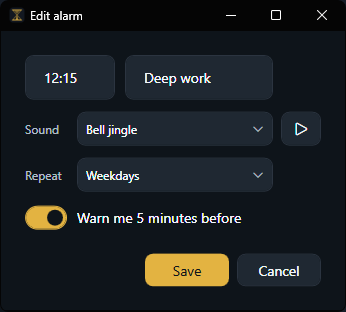
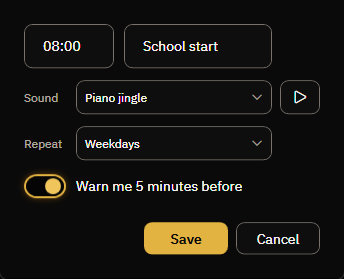
docs(readme): fresh screenshots for the v2.0.0 look
All four shots retaken on the new palette: the main window leads with the hero
countdown, the Schedule gets its own screenshot for the first time (chosen for
the running-timer strip along the bottom, which no text quite conveys), and the
dialog and completion card are re-shot rather than left showing a theme the app
no longer has. Alt text rewritten to describe what the images now show.

diff --git a/README.md b/README.md
@@ -9,7 +9,7 @@ A calm, dark-mode-first desktop timer for Windows — countdown timers and clock
 > **Tidsro** is Norwegian: *tid* (time) + *ro* (calm / peace) — roughly *"calm time."* The name is the whole idea: a timer that's visible when you need it and invisible when you don't.
 
 <p align="center">
-  <img src="docs/screenshots/main-window.png" alt="Tidsro main window on the Quick timers tab: two timers counting down, each showing its remaining time alongside the wall-clock time it will finish (e.g. done 00:34), with a Schedule tab alongside for weekday alarms, each row with an on/off toggle and one alarm switched off and dimmed at the bottom, in a dark theme with gold accents." width="720">
+  <img src="docs/screenshots/main-window.png" alt="Tidsro on the Quick timers tab: the running countdown shown large in its own card (29:42, done 19:52), preset buttons for 5, 30, and 60 minutes, fields for a custom duration and label with a sound picker, and two more timers stacked below — near-black surfaces with a single gold accent." width="560">
 </p>
 
 ## Who it's for
@@ -51,11 +51,16 @@ Launching Tidsro opens its window — it remembers where you last placed it and 
   - Multiple finished cards stack upward and dismiss independently.
 
 <p align="center">
-  <img src="docs/screenshots/completion-card.png" alt="A finished timer shown as a small card in the corner with +5 min, Restart, and Dismiss buttons." width="320"><br>
+  <img src="docs/screenshots/completion-card.png" alt="A finished timer shown as a small dark card reading complete, Laundry done, with +5 min, Restart, and Dismiss buttons." width="320"><br>
   <em>A finished timer surfaces as a calm corner card — it never steals focus.</em>
 </p>
 
 The **Schedule** is its own tab next to Quick timers, and a compact strip below the tab content shows whatever is counting down, whichever tab you're on. Type a time — `14:30`, or shorthand like `9`, `930`, or `1430` (24-hour) — an optional label, choose a sound, set **Repeat** (Once, or a weekday set), and click **Add** (or press **Enter**). The alarm is saved immediately. Turn on **Warn me 5 minutes before** for a quiet heads-up ahead of the alarm.
+
+<p align="center">
+  <img src="docs/screenshots/schedule.png" alt="The Schedule tab: a form for adding an alarm (time, label, sound, repeat, and a pre-alarm warning toggle), three weekday alarms below with gold on/off toggles, and a slim strip along the bottom showing a timer still counting down on the other tab (Running 00:10, Laundry done)." width="560"><br>
+  <em>The Schedule — and the strip along the bottom keeping a running timer in view.</em>
+</p>
 
 - A one-shot alarm fires once; a recurring alarm repeats on its days, and the Schedule stays sorted by what's next.
 - If Tidsro isn't running when an alarm time passes, it fires within a 5-minute grace window on next launch.
@@ -65,7 +70,7 @@ The **Schedule** is its own tab next to Quick timers, and a compact strip below 
 - When an alarm fires, the same quiet bottom-right card appears, with **Snooze +5** (re-arms it 5 minutes later in the Schedule) and **Dismiss**.
 
 <p align="center">
-  <img src="docs/screenshots/alarm-dialog.png" alt="The Edit alarm dialog: time, label, sound picker, repeat, and a gold toggle switch for the optional 5-minute pre-alarm warning." width="346"><br>
+  <img src="docs/screenshots/alarm-dialog.png" alt="The Edit alarm dialog: an 08:00 alarm labelled School start, with a sound picker on Piano jingle, repeat set to Weekdays, the 5-minute pre-alarm warning switched on with a gold toggle, and Save and Cancel buttons." width="344"><br>
   <em>Editing an alarm — per-alarm sound, repeat, and the optional 5-minute warning.</em>
 </p>
 
